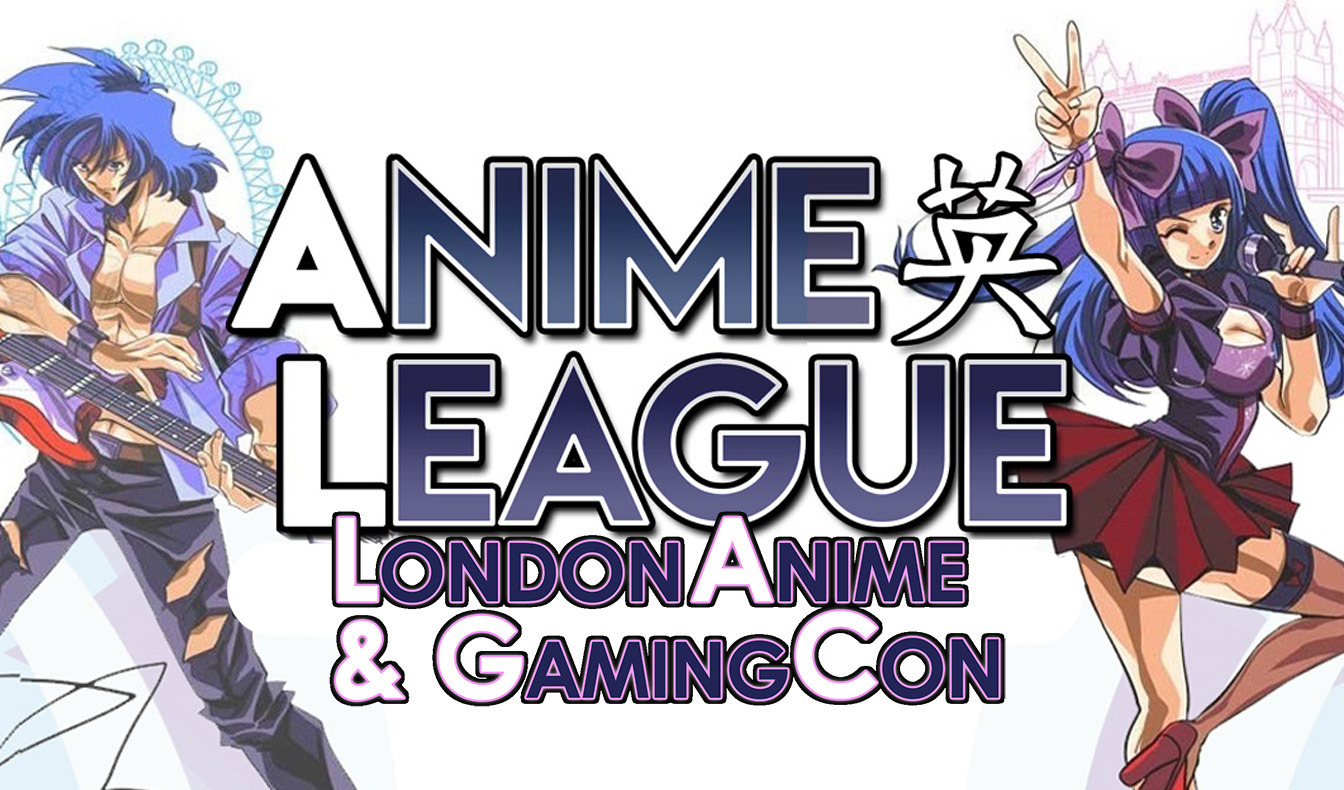
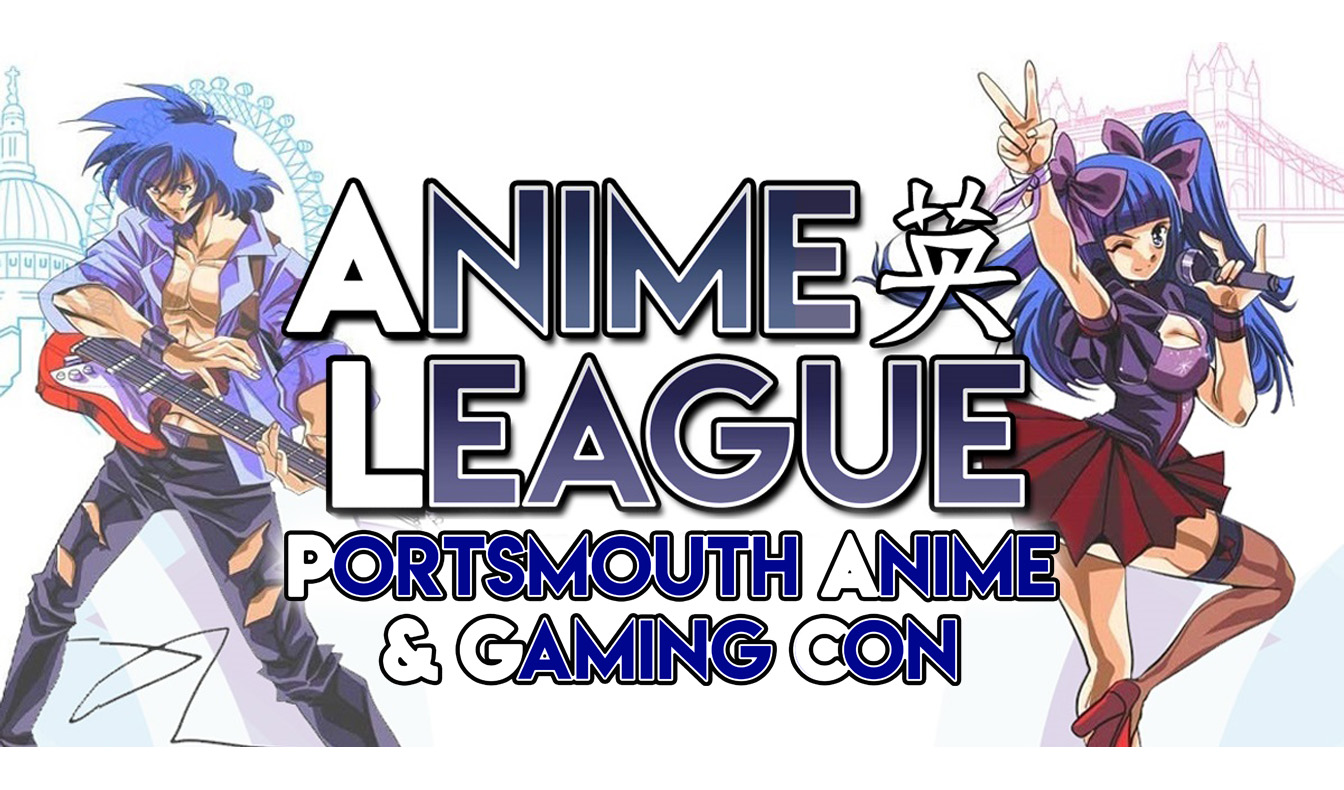
New event

diff --git a/resources/views/livewire/event-banner.blade.php b/resources/views/livewire/event-banner.blade.php
@@ -1,17 +1,13 @@
 <div class="banner-container">
-    <div class="event" onclick="window.open('https://ollgames.co.uk/')">
-        <img src="\img/event/oll-event.jpg" class="event-img" alt="Event Image">
-        <div class="times">Sat-Sun 9th-10th of April</div>
-    </div>
     <div class="event" onclick="window.open('http://norwichtoyfairs.co.uk/')">
         <img src="\img/event/toy-fair-event.jpg" class="event-img" alt="Event Image">
         <div class="times">Sun 3rd of July 9:30am - 14:00pm</div>
     </div>
-    <div class="event" onclick="window.open('https://summer.londonanimecon.com/')">
+    <div class="event" onclick="window.open('https://www.portsmouthanimecon.com/')">
         <img src="\img/event/anime-league.jpg" class="event-img" alt="Event Image">
-        <div class="times">Sat-Sun 13th-14th of August 10:00am - 16:00pm</div>
+        <div class="times">Sat-Sun Aug 20th–21st 10:00am - 16:00pm</div>
     </div>
-    <div class="event" onclick="window.open('https://www.mcmcomiccon.com/')">
+    <div class="event" onclick="window.open('https://www.nor-con.co.uk/')">
         <img src="\img/event/norwich-comicon-event.jpg" class="event-img" alt="Event Image">
         <div class="times">Sat-Sun 24th-25th of September 09:30am - 16:00pm</div>
     </div>
